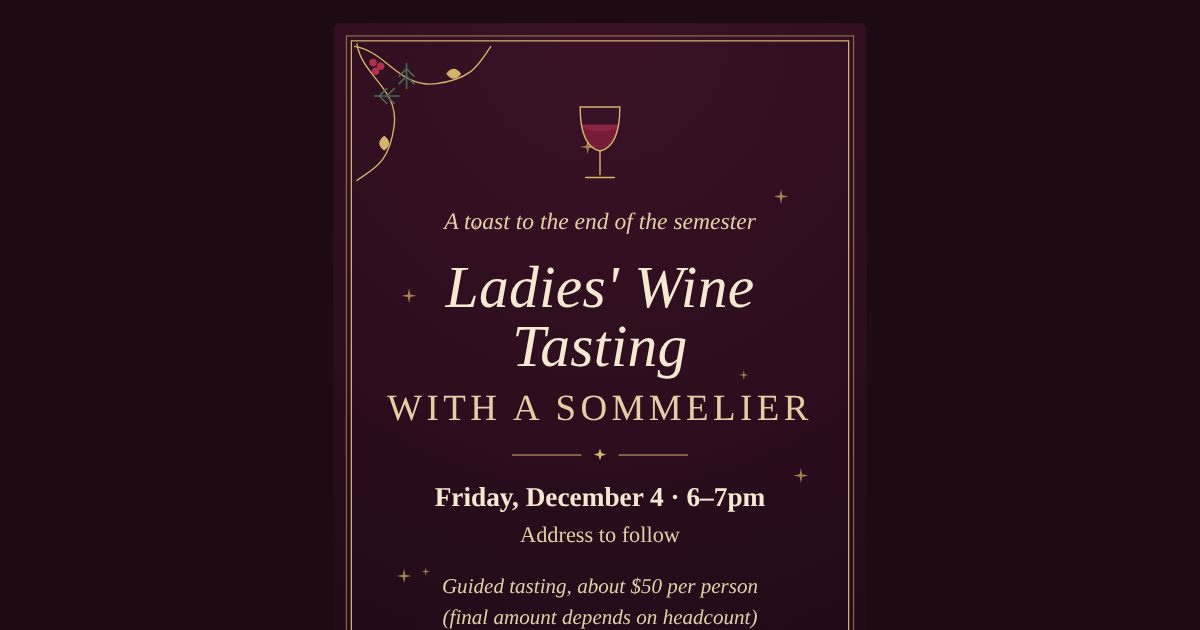
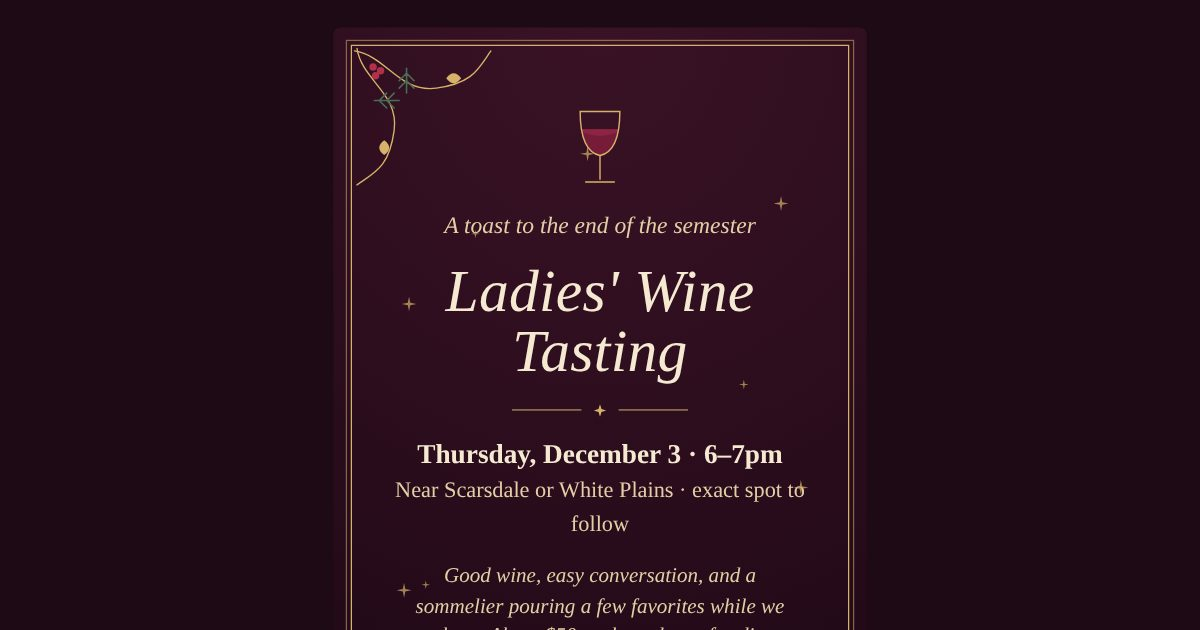
Move to Thursday Dec 3; location near Scarsdale / White Plains TBD
Claude-Session: https://claude.ai/code/session_01PZx2BRDJ8sGYgqT4Z9tZKF

diff --git a/wine-tasting/index.html b/wine-tasting/index.html
@@ -4,7 +4,7 @@
 <meta charset="utf-8">
 <meta name="viewport" content="width=device-width,initial-scale=1,viewport-fit=cover">
 <meta name="theme-color" content="#1E0A15">
-<meta name="description" content="A toast to the end of the semester, with a sommelier. Friday, December 4 · 6–7pm. Tap to RSVP.">
+<meta name="description" content="A toast to the end of the semester, with a sommelier. Thursday, December 3 · 6–7pm. Tap to RSVP.">
 <meta property="og:type" content="website">
 <meta property="og:site_name" content="Invitations">
 <meta property="og:image" content="https://1294962213sh.github.io/wine-tasting/preview.jpg">
@@ -14,8 +14,8 @@
 <link rel="icon" href="icon.svg" type="image/svg+xml">
 <style>:root{padding-top:env(safe-area-inset-top,0px);padding-bottom:env(safe-area-inset-bottom,0px)}body{margin:0}img{max-width:100%}[hidden]{display:none!important}</style>
 <title>Ladies' Wine Tasting</title>
-<meta property="og:title" content="Ladies' Wine Tasting · Dec 4">
-<meta property="og:description" content="A toast to the end of the semester, with a sommelier. Friday, December 4 · 6–7pm. Tap to RSVP.">
+<meta property="og:title" content="Ladies' Wine Tasting · Dec 3">
+<meta property="og:description" content="A toast to the end of the semester, with a sommelier. Thursday, December 3 · 6–7pm. Tap to RSVP.">
 <link rel="stylesheet" href="https://fonts.googleapis.com/css2?family=Cormorant+Garamond:ital,wght@0,400;0,500;0,600;1,400;1,500&family=Jost:wght@400;500&display=swap">
 <style>
   /* Layout: one invitation card on a midnight-plum ground; RSVP below on champagne paper. Single committed look (dark). */
@@ -238,8 +238,8 @@
       <p class="sub" id="sub">A toast to the end of the semester</p>
       <h1 id="title">Ladies' Wine Tasting</h1>
       <div class="orn" aria-hidden="true"><svg viewBox="0 0 10 10"><path d="M5 0 L6.2 3.8 L10 5 L6.2 6.2 L5 10 L3.8 6.2 L0 5 L3.8 3.8 Z" fill="currentColor"/></svg></div>
-      <p class="when" id="when">Friday, December 4 · 6–7pm</p>
-      <p class="where" id="where">Address to follow</p>
+      <p class="when" id="when">Thursday, December 3 · 6–7pm</p>
+      <p class="where" id="where">Near Scarsdale or White Plains · exact spot to follow</p>
       <p class="note" id="note">Good wine, easy conversation, and a sommelier pouring a few favorites while we catch up. About $50 each, and stay for dinner after if you can.</p>
 
       <div class="actions">
@@ -309,11 +309,12 @@ const EVENT = {
   subtitle: "",                       // small caps line under the title; empty hides it
   eyebrow: "",                        // small caps line above the subtitle; empty hides it
   sub: "A toast to the end of the semester",
-  start: "2026-12-04T18:00:00",      // local time
-  end:   "2026-12-04T19:00:00",
+  start: "2026-12-03T18:00:00",      // local time
+  end:   "2026-12-03T19:00:00",
   tz:    "America/New_York",
-  dateLabel: "Friday, December 4 · 6–7pm",
-  address: "",                        // e.g. "12 Orchard Lane, Rye NY" — empty shows "Address to follow"
+  dateLabel: "Thursday, December 3 · 6–7pm",
+  address: "",                        // e.g. "12 Orchard Lane, Scarsdale NY" — empty shows the placeholder line
+  addressHint: "Near Scarsdale or White Plains · exact spot to follow",
   details: "Good wine, easy conversation, and a sommelier pouring a few favorites while we catch up. About $50 each, and stay for dinner after if you can.",
   // Google Form connection — where RSVPs are stored
   form: {
@@ -335,8 +336,8 @@ $("when").textContent = EVENT.dateLabel;
 $("note").innerHTML = EVENT.details;
 document.title = EVENT.title;
 
+$("where").textContent = EVENT.address || EVENT.addressHint || "Address to follow";
 if (EVENT.address) {
-  $("where").textContent = EVENT.address;
   const m = $("map");
   m.href = "https://maps.google.com/?q=" + encodeURIComponent(EVENT.address);
   m.removeAttribute("aria-disabled");

diff --git a/wine-tasting/thanks/index.html b/wine-tasting/thanks/index.html
@@ -191,7 +191,7 @@ const SETTLE = {
   note: "Thank you for coming, for the laughter, and for making our sommelier work for it. A real pleasure to end the semester with all of you.",
   sign: "— Shen",
   foot: "Until the next one",
-  payNote: "Wine tasting · Dec 4",
+  payNote: "Wine tasting · Dec 3",
   // Per-person amounts. Add or remove options; one option hides the chooser.
   options: [
     { label: "Tasting only", amount: 47 },
